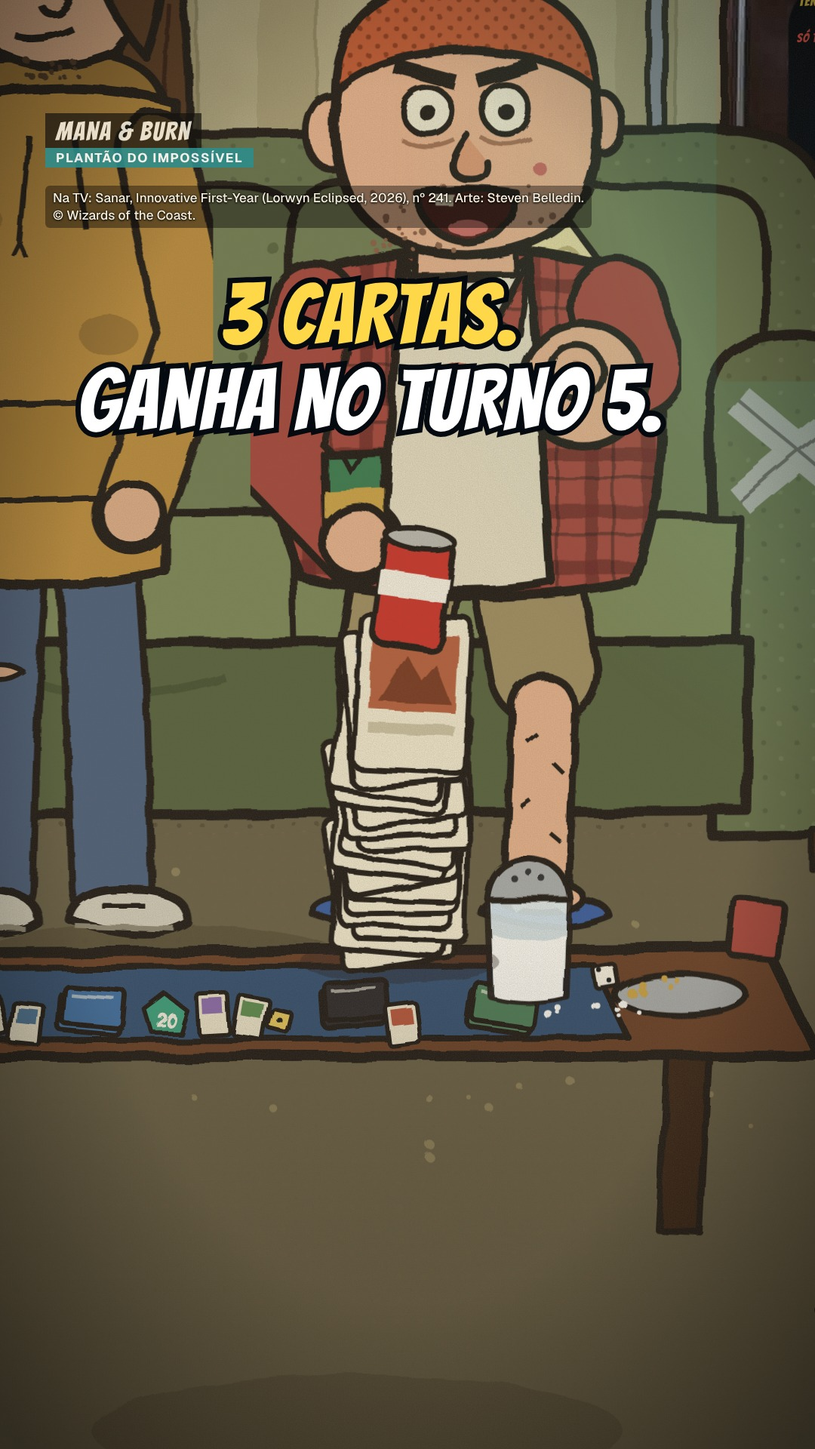
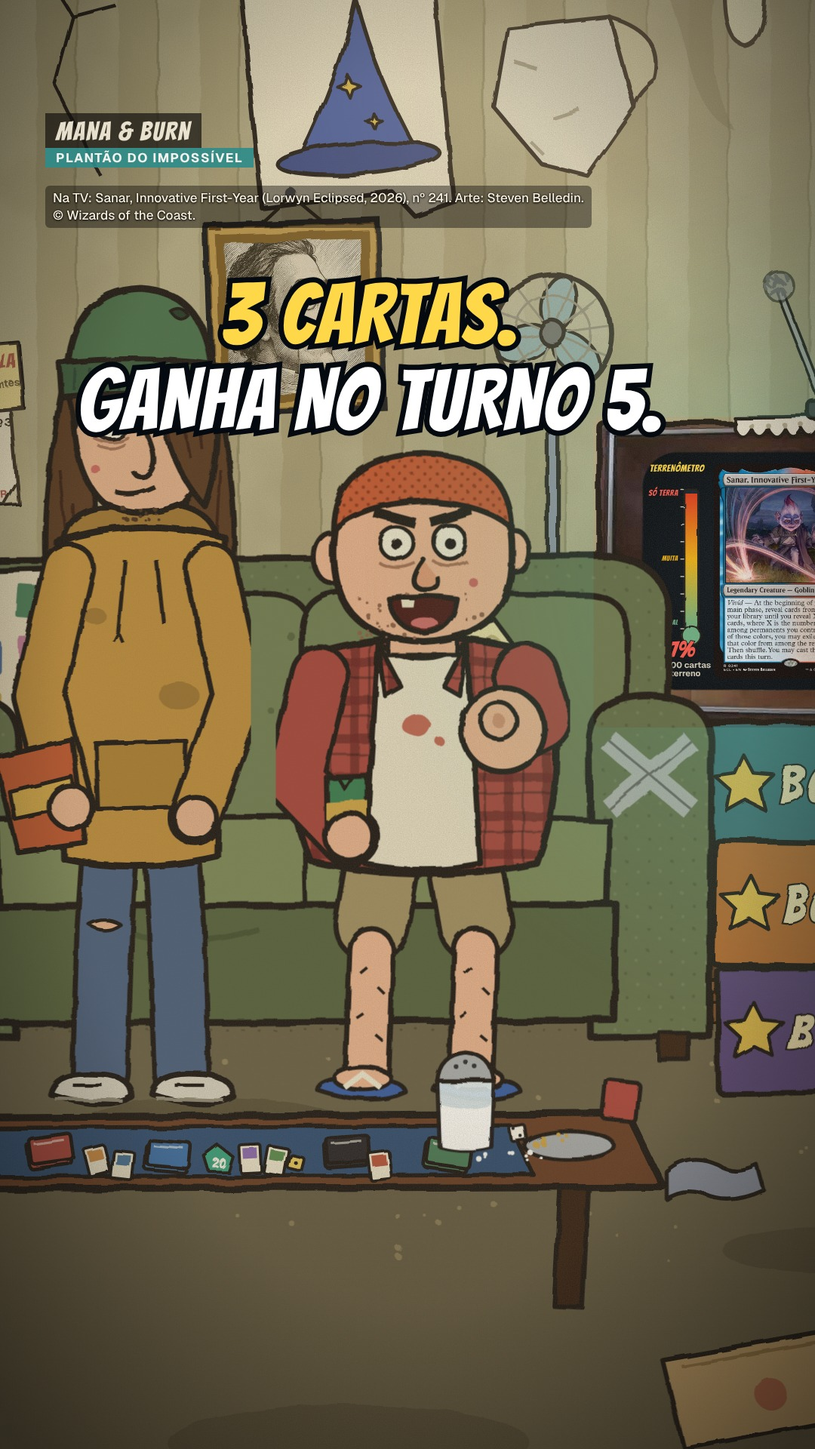
Mana & Burn Ep. 10: fecho do scanner no fim e sem pilha de terrenos (revisão do fundador)
Claude-Session: https://claude.ai/code/session_016gdr9gT8tg9mX1GFjbdqEs

diff --git a/manaburn/data.js b/manaburn/data.js
@@ -1,1 +1,1 @@
-const DATA={"lines": [{"who": "B", "text": "Esse deck tem *97 terrenos*. E ganha no *turno cinco*.", "start": 0.35, "dur": 3.555, "env": [0.98, 0.52, 0.44, 0.41, 1.0, 0.84, 0.12, 0.61, 0.74, 1.0, 0.2, 0.73, 0.78, 0.49, 0.63, 0.26, 0.34, 1.0, 0.32, 0.27, 0.65, 0.97, 0.9, 1.0, 0.42, 0.18, 0.05, 0.12, 0.46, 0.74, 0.74, 0.76, 0.59, 0.83, 0.72, 0.75, 0.15, 0.33, 1.0, 0.66, 0.12, 0.16, 0.05]}, {"who": "M", "text": "E só três cartas de verdade.", "start": 3.985, "dur": 2.74, "env": [0.76, 0.91, 0.94, 0.69, 1.0, 0.76, 0.07, 0.97, 1.0, 1.0, 0.97, 0.87, 0.33, 0.79, 1.0, 0.66, 0.46, 0.88, 0.52, 0.58, 0.73, 0.39, 0.48, 0.61, 0.42, 0.23, 0.24, 0.2, 0.21, 0.15, 0.15, 0.14, 0.14]}, {"who": "B", "text": "Mentira. Três cartas não ganham de ninguém.", "start": 6.765, "dur": 2.282, "env": [0.13, 0.26, 0.1, 0.18, 0.17, 0.33, 0.25, 0.07, 0.04, 0.73, 0.49, 0.22, 0.5, 1.0, 0.3, 0.53, 0.52, 0.57, 1.0, 1.0, 0.33, 1.0, 0.81, 0.37, 0.86, 0.59, 0.16]}, {"who": "M", "text": "Primeira: *Sanar*. Revira o deck até achar duas cartas que não são terreno. E só tem duas.", "start": 9.167, "dur": 5.836, "env": [1.0, 1.0, 1.0, 0.94, 0.5, 0.42, 0.09, 0.06, 0.06, 0.05, 0.37, 0.71, 0.84, 0.69, 0.39, 0.27, 0.16, 0.05, 0.01, 0.72, 1.0, 0.95, 1.0, 0.8, 1.0, 0.85, 0.23, 0.87, 0.22, 1.0, 0.61, 0.34, 0.96, 0.41, 0.29, 0.86, 1.0, 0.69, 0.34, 0.61, 0.99, 0.15, 0.72, 0.44, 0.42, 0.71, 0.6, 0.74, 0.56, 0.46, 0.7, 0.4, 0.89, 0.81, 0.66, 0.44, 0.24, 0.04, 0.17, 0.32, 0.37, 0.38, 0.4, 0.42, 0.35, 0.38, 0.2, 0.14, 0.15, 0.1]}, {"who": "M", "text": "Segunda: *Treasure Hunt*. Revela até achar uma que não é terreno.", "start": 15.103, "dur": 4.204, "env": [0.14, 0.56, 1.0, 0.82, 0.99, 0.6, 0.35, 0.07, 0.03, 0.77, 1.0, 1.0, 0.89, 1.0, 0.52, 0.59, 0.83, 0.27, 0.12, 0.18, 0.04, 0.26, 1.0, 0.61, 0.89, 0.84, 0.65, 0.74, 0.54, 0.73, 0.51, 0.76, 0.45, 0.34, 0.91, 0.75, 0.68, 0.65, 0.13, 0.39, 0.51, 0.64, 0.58, 0.72, 0.36, 0.68, 0.6, 0.44, 0.2, 0.13]}, {"who": "B", "text": "Não sobrou nenhuma. *Travou.*", "start": 19.367, "dur": 1.394, "env": [0.19, 0.37, 0.43, 0.68, 1.0, 0.7, 0.73, 0.95, 0.8, 0.35, 0.1, 0.29, 1.0, 0.53, 0.37, 0.6, 0.09]}, {"who": "M", "text": "*Lê a carta.* Tudo o que revelou vai pra mão.", "start": 20.881, "dur": 2.522, "env": [0.5, 0.99, 1.0, 0.69, 0.14, 0.51, 0.35, 0.46, 0.4, 0.18, 0.13, 0.11, 0.09, 0.06, 0.3, 1.0, 0.76, 0.2, 0.88, 0.9, 0.54, 0.8, 0.7, 0.64, 0.84, 1.0, 0.64, 0.39, 0.28, 0.17]}, {"who": "M", "text": "*Mais de oitenta terrenos*. O limite é sete. O resto, descarta.", "start": 23.583, "dur": 4.208, "env": [0.43, 0.78, 1.0, 0.84, 0.49, 1.0, 0.47, 0.04, 1.0, 1.0, 0.69, 0.76, 0.35, 0.8, 0.53, 0.54, 0.4, 0.23, 0.23, 0.21, 0.13, 0.04, 0.48, 0.95, 1.0, 0.98, 0.95, 0.85, 0.78, 0.94, 0.91, 0.15, 0.3, 0.21, 0.05, 0.19, 0.57, 0.66, 1.0, 0.34, 0.13, 0.18, 0.04, 0.14, 0.54, 0.44, 0.35, 0.24, 0.19, 0.23]}, {"who": "M", "text": "Terceira: *Magmakin Artillerist*. Cada carta descartada, um de dano. Em *cada* oponente.", "start": 28.011, "dur": 5.538, "env": [0.9, 1.0, 0.77, 0.93, 0.94, 0.36, 0.18, 0.02, 0.37, 1.0, 1.0, 0.63, 1.0, 0.3, 0.65, 0.88, 0.29, 0.75, 0.18, 0.39, 0.98, 0.61, 0.35, 0.2, 0.25, 0.16, 0.05, 0.03, 0.98, 0.72, 0.75, 0.17, 1.0, 0.35, 0.55, 0.52, 0.5, 0.62, 0.3, 0.99, 0.54, 0.67, 0.26, 0.02, 0.98, 1.0, 0.81, 0.45, 0.86, 0.37, 0.18, 0.03, 0.11, 0.4, 0.17, 0.17, 0.62, 0.66, 0.91, 0.34, 1.0, 0.45, 0.26, 0.1, 0.1, 0.12]}, {"who": "B", "text": "*Isso devia ser banido!* ...Não. Eu paro isso. *Mato a Sanar.*", "start": 33.609, "dur": 3.296, "env": [0.3, 0.56, 0.31, 0.47, 0.66, 0.4, 0.65, 0.32, 0.99, 0.62, 1.0, 1.0, 0.34, 0.31, 0.08, 0.05, 0.38, 0.48, 0.15, 0.02, 1.0, 0.39, 0.96, 1.0, 0.59, 0.39, 0.12, 0.06, 0.04, 0.06, 0.41, 1.0, 0.6, 0.41, 0.22, 0.51, 0.4, 0.34, 0.14, 0.03]}, {"who": "M", "text": "Tarde demais. Mas *uma carta* para. Qual?", "start": 37.025, "dur": 2.504, "env": [0.55, 0.94, 0.76, 0.61, 0.41, 0.65, 0.61, 0.46, 0.22, 0.43, 0.31, 0.15, 0.07, 0.27, 0.99, 0.88, 1.0, 0.45, 0.87, 0.33, 0.76, 0.43, 1.0, 0.58, 0.23, 0.04, 0.26, 1.0, 0.63, 0.13]}, {"who": "B", "text": "...Quantos terrenos?", "start": 40.579, "dur": 0.71, "env": [0.85, 0.87, 0.29, 1.0, 0.59, 0.99, 0.9, 0.4, 0.15]}], "T_SLAM": 40.029, "T_END": 41.44, "T_SCAN": null, "SCAN_DUR": 0, "ev": {"cortes_tv": [20.881], "destaque": [9.617, 15.553, 21.331, 28.461], "raiva": [19.367, 33.609], "cartas": [], "zaps": [9.167, 15.103, 28.011], "zaps_leves": []}};
+const DATA={"lines": [{"who": "B", "text": "Esse deck tem *97 terrenos*. E ganha no *turno cinco*.", "start": 0.35, "dur": 3.555, "env": [0.98, 0.52, 0.44, 0.41, 1.0, 0.84, 0.12, 0.61, 0.74, 1.0, 0.2, 0.73, 0.78, 0.49, 0.63, 0.26, 0.34, 1.0, 0.32, 0.27, 0.65, 0.97, 0.9, 1.0, 0.42, 0.18, 0.05, 0.12, 0.46, 0.74, 0.74, 0.76, 0.59, 0.83, 0.72, 0.75, 0.15, 0.33, 1.0, 0.66, 0.12, 0.16, 0.05]}, {"who": "M", "text": "E só três cartas de verdade.", "start": 3.985, "dur": 2.74, "env": [0.76, 0.91, 0.94, 0.69, 1.0, 0.76, 0.07, 0.97, 1.0, 1.0, 0.97, 0.87, 0.33, 0.79, 1.0, 0.66, 0.46, 0.88, 0.52, 0.58, 0.73, 0.39, 0.48, 0.61, 0.42, 0.23, 0.24, 0.2, 0.21, 0.15, 0.15, 0.14, 0.14]}, {"who": "B", "text": "Mentira. Três cartas não ganham de ninguém.", "start": 6.765, "dur": 2.282, "env": [0.13, 0.26, 0.1, 0.18, 0.17, 0.33, 0.25, 0.07, 0.04, 0.73, 0.49, 0.22, 0.5, 1.0, 0.3, 0.53, 0.52, 0.57, 1.0, 1.0, 0.33, 1.0, 0.81, 0.37, 0.86, 0.59, 0.16]}, {"who": "M", "text": "Primeira: *Sanar*. Revira o deck até achar duas cartas que não são terreno. E só tem duas.", "start": 9.167, "dur": 5.836, "env": [1.0, 1.0, 1.0, 0.94, 0.5, 0.42, 0.09, 0.06, 0.06, 0.05, 0.37, 0.71, 0.84, 0.69, 0.39, 0.27, 0.16, 0.05, 0.01, 0.72, 1.0, 0.95, 1.0, 0.8, 1.0, 0.85, 0.23, 0.87, 0.22, 1.0, 0.61, 0.34, 0.96, 0.41, 0.29, 0.86, 1.0, 0.69, 0.34, 0.61, 0.99, 0.15, 0.72, 0.44, 0.42, 0.71, 0.6, 0.74, 0.56, 0.46, 0.7, 0.4, 0.89, 0.81, 0.66, 0.44, 0.24, 0.04, 0.17, 0.32, 0.37, 0.38, 0.4, 0.42, 0.35, 0.38, 0.2, 0.14, 0.15, 0.1]}, {"who": "M", "text": "Segunda: *Treasure Hunt*. Revela até achar uma que não é terreno.", "start": 15.103, "dur": 4.204, "env": [0.14, 0.56, 1.0, 0.82, 0.99, 0.6, 0.35, 0.07, 0.03, 0.77, 1.0, 1.0, 0.89, 1.0, 0.52, 0.59, 0.83, 0.27, 0.12, 0.18, 0.04, 0.26, 1.0, 0.61, 0.89, 0.84, 0.65, 0.74, 0.54, 0.73, 0.51, 0.76, 0.45, 0.34, 0.91, 0.75, 0.68, 0.65, 0.13, 0.39, 0.51, 0.64, 0.58, 0.72, 0.36, 0.68, 0.6, 0.44, 0.2, 0.13]}, {"who": "B", "text": "Não sobrou nenhuma. *Travou.*", "start": 19.367, "dur": 1.394, "env": [0.19, 0.37, 0.43, 0.68, 1.0, 0.7, 0.73, 0.95, 0.8, 0.35, 0.1, 0.29, 1.0, 0.53, 0.37, 0.6, 0.09]}, {"who": "M", "text": "*Lê a carta.* Tudo o que revelou vai pra mão.", "start": 20.881, "dur": 2.522, "env": [0.5, 0.99, 1.0, 0.69, 0.14, 0.51, 0.35, 0.46, 0.4, 0.18, 0.13, 0.11, 0.09, 0.06, 0.3, 1.0, 0.76, 0.2, 0.88, 0.9, 0.54, 0.8, 0.7, 0.64, 0.84, 1.0, 0.64, 0.39, 0.28, 0.17]}, {"who": "M", "text": "*Mais de oitenta terrenos*. O limite é sete. O resto, descarta.", "start": 23.583, "dur": 4.208, "env": [0.43, 0.78, 1.0, 0.84, 0.49, 1.0, 0.47, 0.04, 1.0, 1.0, 0.69, 0.76, 0.35, 0.8, 0.53, 0.54, 0.4, 0.23, 0.23, 0.21, 0.13, 0.04, 0.48, 0.95, 1.0, 0.98, 0.95, 0.85, 0.78, 0.94, 0.91, 0.15, 0.3, 0.21, 0.05, 0.19, 0.57, 0.66, 1.0, 0.34, 0.13, 0.18, 0.04, 0.14, 0.54, 0.44, 0.35, 0.24, 0.19, 0.23]}, {"who": "M", "text": "Terceira: *Magmakin Artillerist*. Cada carta descartada, um de dano. Em *cada* oponente.", "start": 28.011, "dur": 5.538, "env": [0.9, 1.0, 0.77, 0.93, 0.94, 0.36, 0.18, 0.02, 0.37, 1.0, 1.0, 0.63, 1.0, 0.3, 0.65, 0.88, 0.29, 0.75, 0.18, 0.39, 0.98, 0.61, 0.35, 0.2, 0.25, 0.16, 0.05, 0.03, 0.98, 0.72, 0.75, 0.17, 1.0, 0.35, 0.55, 0.52, 0.5, 0.62, 0.3, 0.99, 0.54, 0.67, 0.26, 0.02, 0.98, 1.0, 0.81, 0.45, 0.86, 0.37, 0.18, 0.03, 0.11, 0.4, 0.17, 0.17, 0.62, 0.66, 0.91, 0.34, 1.0, 0.45, 0.26, 0.1, 0.1, 0.12]}, {"who": "B", "text": "*Isso devia ser banido!* ...Não. Eu paro isso. *Mato a Sanar.*", "start": 33.609, "dur": 3.296, "env": [0.3, 0.56, 0.31, 0.47, 0.66, 0.4, 0.65, 0.32, 0.99, 0.62, 1.0, 1.0, 0.34, 0.31, 0.08, 0.05, 0.38, 0.48, 0.15, 0.02, 1.0, 0.39, 0.96, 1.0, 0.59, 0.39, 0.12, 0.06, 0.04, 0.06, 0.41, 1.0, 0.6, 0.41, 0.22, 0.51, 0.4, 0.34, 0.14, 0.03]}, {"who": "M", "text": "Tarde demais. Mas *uma carta* para. Qual?", "start": 37.025, "dur": 2.504, "env": [0.55, 0.94, 0.76, 0.61, 0.41, 0.65, 0.61, 0.46, 0.22, 0.43, 0.31, 0.15, 0.07, 0.27, 0.99, 0.88, 1.0, 0.45, 0.87, 0.33, 0.76, 0.43, 1.0, 0.58, 0.23, 0.04, 0.26, 1.0, 0.63, 0.13]}, {"who": "B", "text": "...Quantos terrenos?", "start": 40.579, "dur": 0.71, "env": [0.85, 0.87, 0.29, 1.0, 0.59, 0.99, 0.9, 0.4, 0.15]}], "T_SLAM": 40.029, "T_END": 42.14, "T_SCAN": null, "SCAN_DUR": 0, "ev": {"cortes_tv": [20.881], "destaque": [9.617, 15.553, 21.331, 28.461], "raiva": [19.367, 33.609], "cartas": [], "zaps": [9.167, 15.103, 28.011], "zaps_leves": []}};

diff --git a/manaburn/episode.js b/manaburn/episode.js
@@ -12,25 +12,24 @@ const EP = {
   bug: 'PLANTÃO DO IMPOSSÍVEL',
   poster: 'mago',          // Sanar é Goblin Sorcerer
   fx: { foco: true, tremor: true, poster: true, celular: false, scanner: false },
-  loop: true,              // versão a publicar: fim corta seco para o início (sem fecho do scanner)
+  loop: true,              // sem colapso da imagem na pancada: só a TV da sala apaga; a fala 12 fica no silêncio
+  desliga: { apos: 0.15 }, // depois da última fala: a imagem apaga até ao ponto verde e entra o fecho do scanner (11/11, pedido do fundador)
   card: { img: 'cards/sanar.png', cred: SANAR },
   pose: [
-    ['point_cam', 'rest', 'cam', 'other', 'angry', 'flat', 'pilha'],   // 1 B Esse deck tem 97 terrenos. E ganha no turno cinco.
+    ['point_cam', 'rest', 'cam', 'other', 'angry', 'flat', 'cuB'],     // 1 B Esse deck tem 97 terrenos. E ganha no turno cinco.
     ['rest', 'rest', 'other', 'cam', 'normal', 'flat', 'cuM'],         // 2 M E só três cartas de verdade.
     ['shrug', 'rest', 'other', 'other', 'up', 'flat', 'wide'],         // 3 B Mentira. Três cartas não ganham de ninguém.
     ['point_tv', 'finger', 'left', 'x', 'up', 'x', 'tvtext'],          // 4 M 1/3 Sanar
     ['point_tv', 'finger', 'left', 'x', 'up', 'x', 'tvtext'],          // 5 M 2/3 Treasure Hunt
     ['arms_up', 'rest', 'cam', 'other', 'angry', 'flat', 'cuB'],       // 6 B Não sobrou nenhuma. Travou.
     ['point_tv', 'x', 'screen', 'x', 'up', 'x', 'tvtext2'],            // 7 M Lê a carta. Tudo o que revelou vai pra mão.
-    ['rest', 'rest', 'other', 'cam', 'normal', 'flat', 'cuM'],         // 8 M Mais de oitenta terrenos... O resto, descarta. (pilha na mão)
+    ['rest', 'finger', 'other', 'cam', 'normal', 'up', 'cuM'],        // 8 M Mais de oitenta terrenos... O resto, descarta.
     ['point_tv', 'x', 'screen', 'x', 'angry', 'x', 'tvtext'],          // 9 M 3/3 Magmakin Artillerist (contador de dano)
     ['arms_up', 'rest', 'cam', 'other', 'angry', 'flat', 'cuB'],       // 10 B Isso devia ser banido! ...Mato a Sanar.
     ['rest', 'finger', 'other', 'cam', 'normal', 'up', 'wide'],        // 11 M Tarde demais. Mas uma carta para. Qual?  (pancada depois)
     ['shrug', 'rest', 'cam', 'other', 'up', 'flat', 'cuB'],            // 12 B ...Quantos terrenos?  (silêncio, corta para a fala 1)
   ],
-  cams: { pilha: { s: 2.2, cx: 450, cy: 1040, tx: 540, ty: 1060 } },
   gancho: { html: '97 TERRENOS.<br><span style="color:#fff">GANHA NO TURNO 5.</span>', fala: 0 },
-  pilha: { x: 445, y: 1132, lata: true, mao: 7 },
   marca: { fala: 10 },
   // Conde de Manaforte: uma expressão por fala; só muda no início de cada plano (ver patch_index_v3.py)
   quadroDir: 'kit/v3/conde/',

diff --git a/manaburn/episodios/ep10_97_terrenos/episode.js b/manaburn/episodios/ep10_97_terrenos/episode.js
@@ -12,25 +12,24 @@ const EP = {
   bug: 'PLANTÃO DO IMPOSSÍVEL',
   poster: 'mago',          // Sanar é Goblin Sorcerer
   fx: { foco: true, tremor: true, poster: true, celular: false, scanner: false },
-  loop: true,              // versão a publicar: fim corta seco para o início (sem fecho do scanner)
+  loop: true,              // sem colapso da imagem na pancada: só a TV da sala apaga; a fala 12 fica no silêncio
+  desliga: { apos: 0.15 }, // depois da última fala: a imagem apaga até ao ponto verde e entra o fecho do scanner (11/11, pedido do fundador)
   card: { img: 'cards/sanar.png', cred: SANAR },
   pose: [
-    ['point_cam', 'rest', 'cam', 'other', 'angry', 'flat', 'pilha'],   // 1 B Esse deck tem 97 terrenos. E ganha no turno cinco.
+    ['point_cam', 'rest', 'cam', 'other', 'angry', 'flat', 'cuB'],     // 1 B Esse deck tem 97 terrenos. E ganha no turno cinco.
     ['rest', 'rest', 'other', 'cam', 'normal', 'flat', 'cuM'],         // 2 M E só três cartas de verdade.
     ['shrug', 'rest', 'other', 'other', 'up', 'flat', 'wide'],         // 3 B Mentira. Três cartas não ganham de ninguém.
     ['point_tv', 'finger', 'left', 'x', 'up', 'x', 'tvtext'],          // 4 M 1/3 Sanar
     ['point_tv', 'finger', 'left', 'x', 'up', 'x', 'tvtext'],          // 5 M 2/3 Treasure Hunt
     ['arms_up', 'rest', 'cam', 'other', 'angry', 'flat', 'cuB'],       // 6 B Não sobrou nenhuma. Travou.
     ['point_tv', 'x', 'screen', 'x', 'up', 'x', 'tvtext2'],            // 7 M Lê a carta. Tudo o que revelou vai pra mão.
-    ['rest', 'rest', 'other', 'cam', 'normal', 'flat', 'cuM'],         // 8 M Mais de oitenta terrenos... O resto, descarta. (pilha na mão)
+    ['rest', 'finger', 'other', 'cam', 'normal', 'up', 'cuM'],        // 8 M Mais de oitenta terrenos... O resto, descarta.
     ['point_tv', 'x', 'screen', 'x', 'angry', 'x', 'tvtext'],          // 9 M 3/3 Magmakin Artillerist (contador de dano)
     ['arms_up', 'rest', 'cam', 'other', 'angry', 'flat', 'cuB'],       // 10 B Isso devia ser banido! ...Mato a Sanar.
     ['rest', 'finger', 'other', 'cam', 'normal', 'up', 'wide'],        // 11 M Tarde demais. Mas uma carta para. Qual?  (pancada depois)
     ['shrug', 'rest', 'cam', 'other', 'up', 'flat', 'cuB'],            // 12 B ...Quantos terrenos?  (silêncio, corta para a fala 1)
   ],
-  cams: { pilha: { s: 2.2, cx: 450, cy: 1040, tx: 540, ty: 1060 } },
   gancho: { html: '97 TERRENOS.<br><span style="color:#fff">GANHA NO TURNO 5.</span>', fala: 0 },
-  pilha: { x: 445, y: 1132, lata: true, mao: 7 },
   marca: { fala: 10 },
   // Conde de Manaforte: uma expressão por fala; só muda no início de cada plano (ver patch_index_v3.py)
   quadroDir: 'kit/v3/conde/',

diff --git a/manaburn/index.html b/manaburn/index.html
@@ -636,6 +636,10 @@ function render(t){
   { const lz=world.querySelector('#luztv'); if(lz) lz.style.opacity = EP.loop ? 1-clamp((t-T_SLAM)/0.24) : op*Math.min(1,sy); }  // reflexo da TV apaga com ela
   tvEl.style.transform=`scale(${sx},${sy})`; tvEl.style.filter=`brightness(${br})`; tvEl.style.opacity=op;
   dotEl.innerHTML=''; logo.style.opacity=0;
+  if(EP.desliga){ const L_=LINES[LINES.length-1], T_OFF=L_.start+L_.dur+(EP.desliga.apos||0.15);
+    if(t>=T_OFF){ const a=clamp((t-T_OFF)/0.24), b=clamp((t-T_OFF-0.24)/0.18);
+      tvEl.style.transform=`scale(${1-0.985*ease(b)},${Math.max(0.004,1-ease(a))})`; tvEl.style.filter=`brightness(${1+5*a})`; tvEl.style.opacity=t>T_OFF+0.44?0:1;
+      const u=clamp((t-T_OFF-0.40)/0.12); if(t>=T_OFF+0.40) dotEl.innerHTML=`<circle cx="540" cy="960" r="${8+6*u}" fill="${u<0.5?'#FFFFFF':'#10B981'}"/>`; } }
   // bloco do scanner: gravação real do app (EP.outro.frames), entre a TV apagar e a logo
   if(scanEl){ const on = FX.scanner && T_SCAN!==null && t>=T_SCAN && t<T_SCAN+SCAN_DUR;
     scanEl.style.opacity = on ? Math.min(clamp((t-T_SCAN)/0.12), clamp((T_SCAN+SCAN_DUR-t)/0.12)) : 0;

diff --git a/manaburn/kit/v3/patch_index_v3.py b/manaburn/kit/v3/patch_index_v3.py
@@ -12,6 +12,7 @@ EP.gancho     {html, fala}: texto grande do gancho desde o primeiro quadro até 
 EP.marca      {fala: N}: logo do BINDER no canto do ecrã da TV SAL a partir dessa fala.
 EP.loop       true: sem o efeito de ligar a TV no início, sem colapso da imagem, ponto, logo nem fade no fim.
               Na pancada só o ecrã da TV da sala apaga (fica a logo); as legendas continuam depois dela.
+EP.desliga    {apos}: no fim da última fala a imagem apaga até ao ponto verde (para colar o fecho do scanner).
 canal.subir   segundos que o medidor desse canal leva a subir (contador de dano).
 """
 import pathlib
@@ -107,5 +108,6 @@ troca("{ const lz=world.querySelector('#luztv'); if(lz) lz.style.opacity = op*Ma
 troca("  if(t>=T_LOGO+0.30){", "  if(t>=T_LOGO+0.30 && !EP.loop){")
 troca("const fade=clamp((t-(T_END-0.3))/0.3);", "const fade=EP.loop?0:clamp((t-(T_END-0.3))/0.3);")
 
+troca('  // bloco do scanner: gravação real do app (EP.outro.frames), entre a TV apagar e a logo\n', '  if(EP.desliga){ const L_=LINES[LINES.length-1], T_OFF=L_.start+L_.dur+(EP.desliga.apos||0.15);\n    if(t>=T_OFF){ const a=clamp((t-T_OFF)/0.24), b=clamp((t-T_OFF-0.24)/0.18);\n      tvEl.style.transform=`scale(${1-0.985*ease(b)},${Math.max(0.004,1-ease(a))})`; tvEl.style.filter=`brightness(${1+5*a})`; tvEl.style.opacity=t>T_OFF+0.44?0:1;\n      const u=clamp((t-T_OFF-0.40)/0.12); if(t>=T_OFF+0.40) dotEl.innerHTML=`<circle cx="540" cy="960" r="${8+6*u}" fill="${u<0.5?\'#FFFFFF\':\'#10B981\'}"/>`; } }\n  // bloco do scanner: gravação real do app (EP.outro.frames), entre a TV apagar e a logo\n')
 p.write_text(h, encoding='utf8')
 print('ganchos v3 aplicados em', p)

diff --git a/manaburn/kit/v3/juntar_fecho_v3.py b/manaburn/kit/v3/juntar_fecho_v3.py
@@ -1,0 +1,17 @@
+"""Ep. 10 (11/11/2026): cola o fecho do scanner depois de a imagem apagar até ao ponto verde (EP.desliga).
+Corta o vídeo do kit em T_OFF + 0,52 s, cola comum/outro/outro_binder_916.mp4 (3,87 s) e põe por baixo do fecho
+a pancada final da musica.mp3 (a partir de 126,30 s, −8 dB, fade de 0,55 s). Áudio com limitador antes do AAC
+(o ruído das trocas de canal passa de 0 dBTP no AAC sem ele).
+uso: python3 kit/v3/juntar_fecho_v3.py kit.mp4 trilha_master.wav saida.mp4"""
+import sys, json, subprocess
+kit, wav, out = sys.argv[1:4]
+d = json.loads(open('data.js').read().strip()[11:-1]); L = d['lines'][-1]
+ep = json.load(open('episode.json')); T_OFF = L['start'] + L['dur'] + ep['loop']['desliga']
+cut = round(T_OFF + 0.52, 3)
+fc = (f"[0:v]trim=0:{cut},setpts=PTS-STARTPTS,fps=30,format=yuv420p,setsar=1[a];[1:v]fps=30,format=yuv420p,setsar=1[b];[a][b]concat=n=2:v=1:a=0[v];"
+      f"[2:a]atrim=0:{cut},asetpts=PTS-STARTPTS[x];[3:a]aresample=48000,volume=-8dB,afade=t=in:d=0.05,afade=t=out:st=3.32:d=0.55[m];"
+      f"[x][m]concat=n=2:v=0:a=1,lowpass=f=15500,alimiter=limit=0.75:attack=1:release=50:level=false[au]")
+subprocess.run(['ffmpeg','-y','-loglevel','error','-i',kit,'-i','../comum/outro/outro_binder_916.mp4','-i',wav,'-ss','126.30','-t','3.87','-i','musica.mp3',
+  '-filter_complex',fc,'-map','[v]','-map','[au]','-c:v','libx264','-preset','veryfast','-crf','19','-pix_fmt','yuv420p','-r','30',
+  '-c:a','aac','-b:a','192k','-ar','48000','-movflags','+faststart',out],check=True)
+print(f'kit até {cut}s + fecho 3,87 s ->', out)

diff --git a/manaburn/process.py b/manaburn/process.py
@@ -101,7 +101,10 @@ OUTRO = EPI.get('outro', {})
 T_SCAN = round(T_SLAM + 0.44, 3) if OUTRO.get('scanner') else None   # bloco do scanner logo depois que a TV apaga
 SCAN_DUR = OUTRO.get('scanner') or 0
 T_END = round(T_SLAM + 2.0 + SCAN_DUR + (OUTRO.get('hold') or 0), 2)
-if LOOP: T_END = round(last['start'] + last['dur'] + LOOP.get('cauda', 0.12), 2)   # corte seco para o início   # hold: mais tempo para ler a assinatura
+if LOOP: T_END = round(last['start'] + last['dur'] + LOOP.get('cauda', 0.12), 2)   # corte seco para o início
+T_OFF = None
+if LOOP and LOOP.get('desliga'):   # imagem apaga no fim (fecho do scanner a seguir)
+    T_OFF = round(last['start'] + last['dur'] + LOOP['desliga'], 3); T_END = round(T_OFF + 0.70, 2)   # hold: mais tempo para ler a assinatura
 
 # ---------- eventos: os mesmos horários para a imagem (data.js) e para o som ----------
 js = open('episode.js', encoding='utf-8').read()
@@ -174,6 +177,8 @@ SFX = EPI.get('sfx', {})
 fxt = sfx.track(n, SR, lines, T_SLAM, ins_t, cuts, sh,
                 destaques=destaques if SFX.get('destaque') else (), raiva=raiva if SFX.get('raiva') else (),
                 carta=SFX.get('carta', 'pop'), tv=SFX.get('tv', True), zaps=zaps, zaps_leves=zaps_leves)
+if T_OFF is not None:
+    co_ = sfx.crt_off(SR); a_ = int(T_OFF * SR); fxt[a_:a_ + len(co_)] += co_[:max(0, n - a_), None] if co_.ndim == 1 else co_[:max(0, n - a_)]
 mix = m * g[:, None] + voice[:, None] + fxt
 mix /= np.max(np.abs(mix)) * 1.05
 with wave.open('_mix.wav', 'wb') as o:

diff --git a/manaburn/episodios/ep10_97_terrenos/ficha.md b/manaburn/episodios/ep10_97_terrenos/ficha.md
@@ -69,7 +69,7 @@ A LigaMagic não abriu nesta sessão (falha do site; o Ibisson pode conferir no 
 - Vozes: ElevenLabs eleven_v4, flow "Mana & Burn — Ep. 10 (97 terrenos)" (Jafw0fuWuxBiWOCOilnr). Burn: Talis (E9a8LlXPNWtyvvSoZzrb), 290 créditos. Mana: Erik (nfiLpQ54jEQninp3nNqL), 524 créditos. Total 814. Uma geração cada, sem repetição. Grafias: Sanár, Tréjer Rânt, Mégmaquin Artílerist. Ritmo Burn ×1,06, Mana ×1,0.
 - Motor: kit v2 + ganchos v3 (`manaburn/kit/v3/patch_index_v3.py`, todos ligados por campos do episódio), `ordem_livre` e `loop` em `roteiro.py`/`process.py`. Episódios antigos: quadro do Ep. 2 igual antes/depois (diferença de 3×6 px na TV).
 - Conde de Manaforte: inventário em `conde/assets/`: neutro, desconfiado, indignado, admirado, medalhão (este é o retrato oval, não uma expressão; não usado). Mapa: 1–2 neutro · 3 desconfiado (ceticismo) · 4–6 indignado (desdém e impaciência, repetida) · 7–9 admirado (surpresa e surpresa maior, repetida) · 10 indignado (desdém) · 11–12 neutro. Interpretação: a expressão de cada plano é a da fala desse plano.
-- Easter egg: uma lata a mais em cima da pilha de terrenos do Burn (0–3,9 s). Só um.
+- Easter egg: nenhum (a lata ia na pilha de terrenos, que saiu na revisão de 11/11).
 
 ## 8. Controlo de qualidade (11/11/2026)
 | Critério | Resultado |
@@ -83,3 +83,8 @@ A LigaMagic não abriu nesta sessão (falha do site; o Ibisson pode conferir no 
 | Loop | Fim (−42 dB) → início (música entra em 0,15 s); sem estalo |
 | Capa e quadro 0 a 25% | Legíveis |
 | Fecho | QC acusa "fecho ausente" na versão loop: exceção pedida pelo fundador (prompt §11) |
+
+## 9. Revisão do fundador (11/11/2026, 21:22): "Coloque o vídeo que era padrão no final desse vídeo e tire essa pilha de carta de cima da mesa e da mão do Mana"
+- Fecho do scanner (`comum/outro/outro_binder_916.mp4`) no fim da versão a publicar. O loop deixa de ser o fim: depois de "...Quantos terrenos?" a imagem apaga até ao ponto verde (`EP.desliga`, estalo de TV de tubo) e entra o fecho, com a pancada final da música por baixo (`kit/v3/juntar_fecho_v3.py`). A versão sem fecho e a variante "vinheta" deixam de ser entregues.
+- Pilha de terrenos retirada da mesa e da mão do Mana (sai também a lata, que era o easter egg). Abertura passa para o close do Burn (cuB) com o texto do gancho; na fala 8 o Mana levanta o dedo.
+- QC: 45,83 s (41,97 s + fecho), −14,1 LUFS, pico −2,0 dBTP, fecho presente (dif. 0,07), `bordas.py` OK, trocas do quadro do Conde todas em corte.

diff --git a/nucleo/DECISOES.md b/nucleo/DECISOES.md
@@ -6,6 +6,7 @@ Uma entrada por alteração de regra: data · o quê · porquê · impacto. Mais
 
 **O quê:** (1) Novo esqueleto da série aprovado pelo fundador: promessa impossível com números, resposta em três degraus, objeção dita em voz alta, fim que encaixa no início (loop). (2) `manaburn/index.html` ganha ganchos ligados só por campos do `episode.js` (`kit/v3/patch_index_v3.py`): `quadro` (retrato do Conde de Manaforte na parede, expressões já existentes, troca só no corte), `calendario` (folhinha dos anos 90 com uma data verificada), `pilha` (terrenos genéricos na mesa e na mão do Mana), `cams`, `gancho` (texto desde o quadro 0), `marca` (logo do BINDER no ecrã da TV SAL), `loop` e `canal.subir`. (3) `roteiro.py`/`process.py`: `ordem_livre` (falas seguidas do mesmo personagem) e `loop` (pancada depois de uma fala escolhida, falas seguintes em silêncio, fim sem fade). (4) A versão a publicar do Ep. 10 não tem o fecho do scanner (desfaz o loop); a variante com `comum/outro/outro_binder_916.mp4` fica só para comparação. (5) Quadro do Conde e folhinha passam a fixos na série; ninguém os menciona.
 **Porquê:** prompt do fundador "Mana & Burn · Ep. 10 '97 terrenos' (Padrão v3)", aprovado a 11/11/2026, com execução contínua sem pausas de aprovação.
+**Revisão do fundador (11/11/2026, 21:22):** o Ep. 10 volta a terminar com o fecho do scanner (a imagem apaga até ao ponto verde depois da última fala, `EP.desliga`) e perde a pilha de terrenos. A regra do fecho em AGENTS.md §2 vale também para o Padrão v3; o loop sem fecho deixa de ser exceção.
 **Impacto:** episódios antigos saem iguais (sem os campos novos; Ep. 2 conferido). A regra "todo vídeo termina com o fecho" (AGENTS.md §2) tem exceção registada para os episódios em loop do Padrão v3. O QC acusa "fecho ausente" nessas versões: é esperado.
 
 ## 08/11/2026 (00:05) · Burn no plano da TV

diff --git a/comum/historico.md b/comum/historico.md
@@ -49,4 +49,4 @@ Print do próprio post (não do Insights), enviado pelo Ibisson. Entra no quadro
 - Especial de Halloween 2026 (Innistrad × Duskmourn): **publicado**. A música que acima aparece como "provisória" foi aprovada como está.
 - Órbita · Star Trek: a sequência editorial está **publicada**.
 - Tudo o que está no repositório foi testado, aprovado e lançado; vozes e músicas foram criadas pelo fundador e estão aprovadas. As notas "pendente: licença" acima ficam resolvidas por esta confirmação.
-- 11/11/2026 · Mana & Burn Ep. 10 "97 terrenos" (Padrão v3, molde Impossível; Sanar + Treasure Hunt + Magmakin Artillerist). **Produzido, não publicado.** 41,4 s em loop, −14,2 LUFS, pico −2,0 dBTP; variante com fecho 45,3 s. Ficha: `manaburn/episodios/ep10_97_terrenos/ficha.md`. Gancho B (sem preço: LigaMagic não abriu). Hipóteses: H1 retenção aos 3 s acima da média dos Ep. 5–9; H2 ≥ 3 comentários por 1.000 views; H3 repetições acima do Ep. 9. Insights a preencher às 48 h e aos 7 dias.
+- 11/11/2026 · Mana & Burn Ep. 10 "97 terrenos" (Padrão v3, molde Impossível; Sanar + Treasure Hunt + Magmakin Artillerist). **Produzido, não publicado.** 45,8 s com o fecho do scanner (revisão do fundador, 11/11), −14,1 LUFS, pico −2,0 dBTP. Ficha: `manaburn/episodios/ep10_97_terrenos/ficha.md`. Gancho B (sem preço: LigaMagic não abriu). Hipóteses: H1 retenção aos 3 s acima da média dos Ep. 5–9; H2 ≥ 3 comentários por 1.000 views; H3 repetições acima do Ep. 9. Insights a preencher às 48 h e aos 7 dias.

diff --git a/STATUS.md b/STATUS.md
@@ -70,7 +70,7 @@ Aprovada pelo fundador (`nucleo/DECISOES.md`). Fase 1 implementada e integrada n
 
 ## Mana & Burn Ep. 10 "97 terrenos" · Padrão v3 (11/11/2026)
 
-Branch `manaburn/ep10-97-terrenos`. Episódio produzido e conferido (41,4 s em loop, −14,2 LUFS; variante com fecho 45,3 s, só para comparação). Ganchos v3 no motor (quadro do Conde, folhinha, pilha, loop) ligados por campos do episódio; decisão em `nucleo/DECISOES.md`. Ficha: `manaburn/episodios/ep10_97_terrenos/ficha.md`. Depende do fundador: ouvir a pronúncia de "Sanar", "Treasure Hunt" e "Magmakin Artillerist", conferir o preço na LigaMagic se quiser o gancho A, aprovar o merge e publicar. Vídeos não estão no repositório; recriam-se com `process.py voz/… && render.py` (vozes em `manaburn/burn.mp3`/`mana.mp3`).
+Branch `manaburn/ep10-97-terrenos`. Episódio produzido e conferido: 45,8 s com o fecho do scanner, −14,1 LUFS; pilha de terrenos retirada (revisão do fundador, 11/11, 21:22). Ganchos v3 no motor (quadro do Conde, folhinha, pilha, loop) ligados por campos do episódio; decisão em `nucleo/DECISOES.md`. Ficha: `manaburn/episodios/ep10_97_terrenos/ficha.md`. Depende do fundador: ouvir a pronúncia de "Sanar", "Treasure Hunt" e "Magmakin Artillerist", conferir o preço na LigaMagic se quiser o gancho A, aprovar o merge e publicar. Vídeos não estão no repositório; recriam-se com `process.py voz/… && render.py` (vozes em `manaburn/burn.mp3`/`mana.mp3`).
 
 ## Próximo passo concreto
 

diff --git a/comum/easter_eggs.md b/comum/easter_eggs.md
@@ -8,4 +8,3 @@
 | 29/10/2026 | Mana & Burn · Ep. 09 (Dack Fayden) | relógio da TV SAL em "02:10" = 02/10, dia de lançamento do precon Multiverse Reforged | canto inferior direito da TV, em todos os planos da TV (0–4 s, 11–17 s, 31–35 s) |
 | 31/10/2026 | Especial de Halloween (Innistrad × Duskmourn) | "13" na chuva de código do terminal = o custo da Emrakul, the Promised End | cena 5 (dentro do tubo), ~74–75 s, ao centro-direita |
 | 02/11/2026 | Especial · A comunidade falou: Precon em jogo | retrato do Conde de Manaforte na parede muda de expressão a cada regresso à sala | planos de sala, a partir de ~7 s |
-| 11/11/2026 | Mana & Burn · Ep. 10 (97 terrenos) | uma lata de refrigerante a mais em cima da pilha de terrenos do Burn | plano de abertura, 0–3,9 s |
